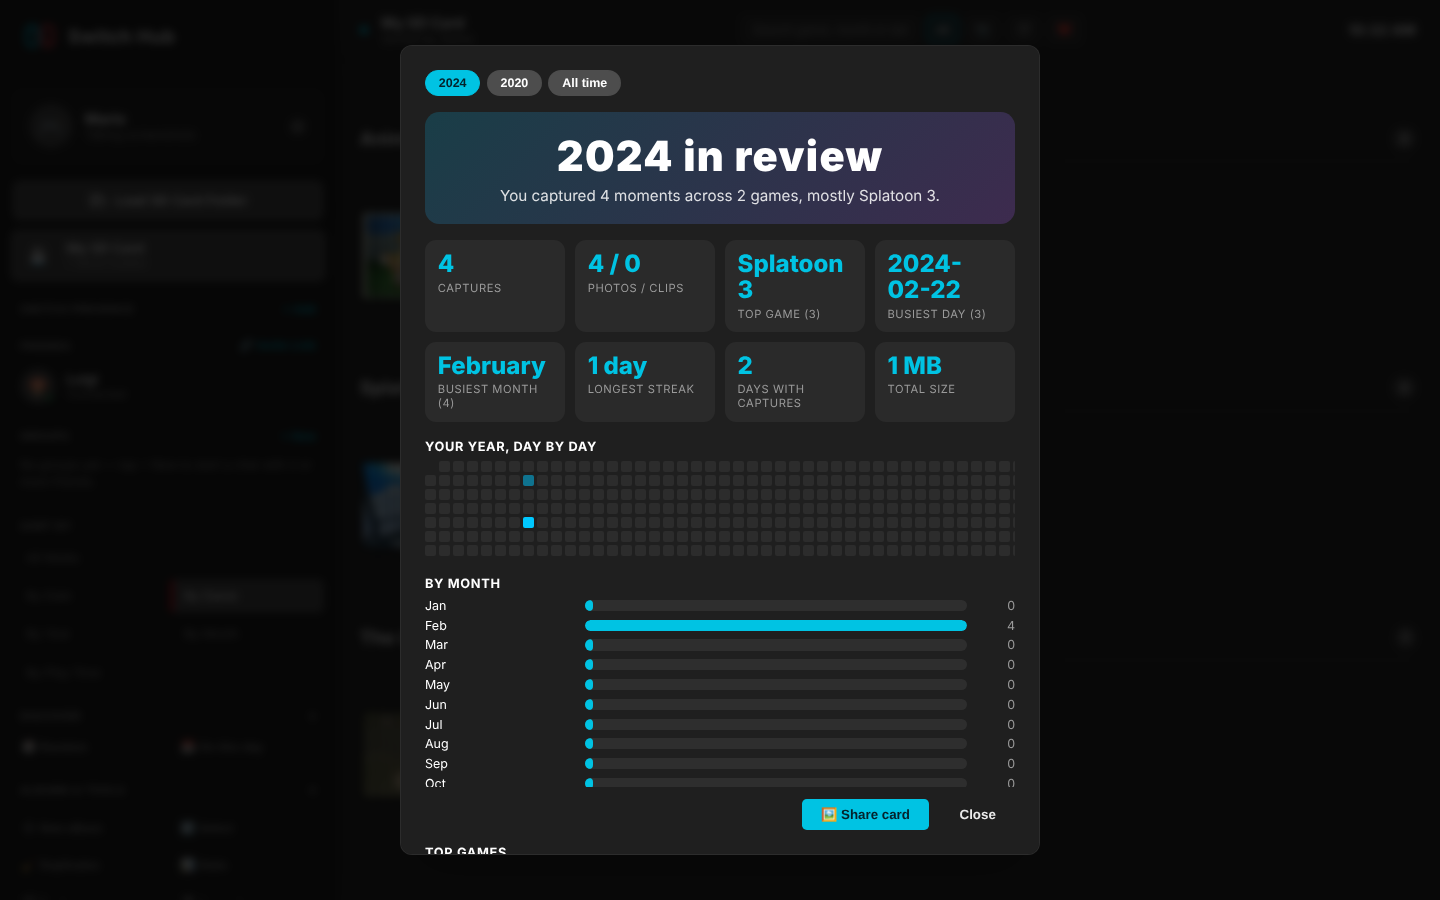
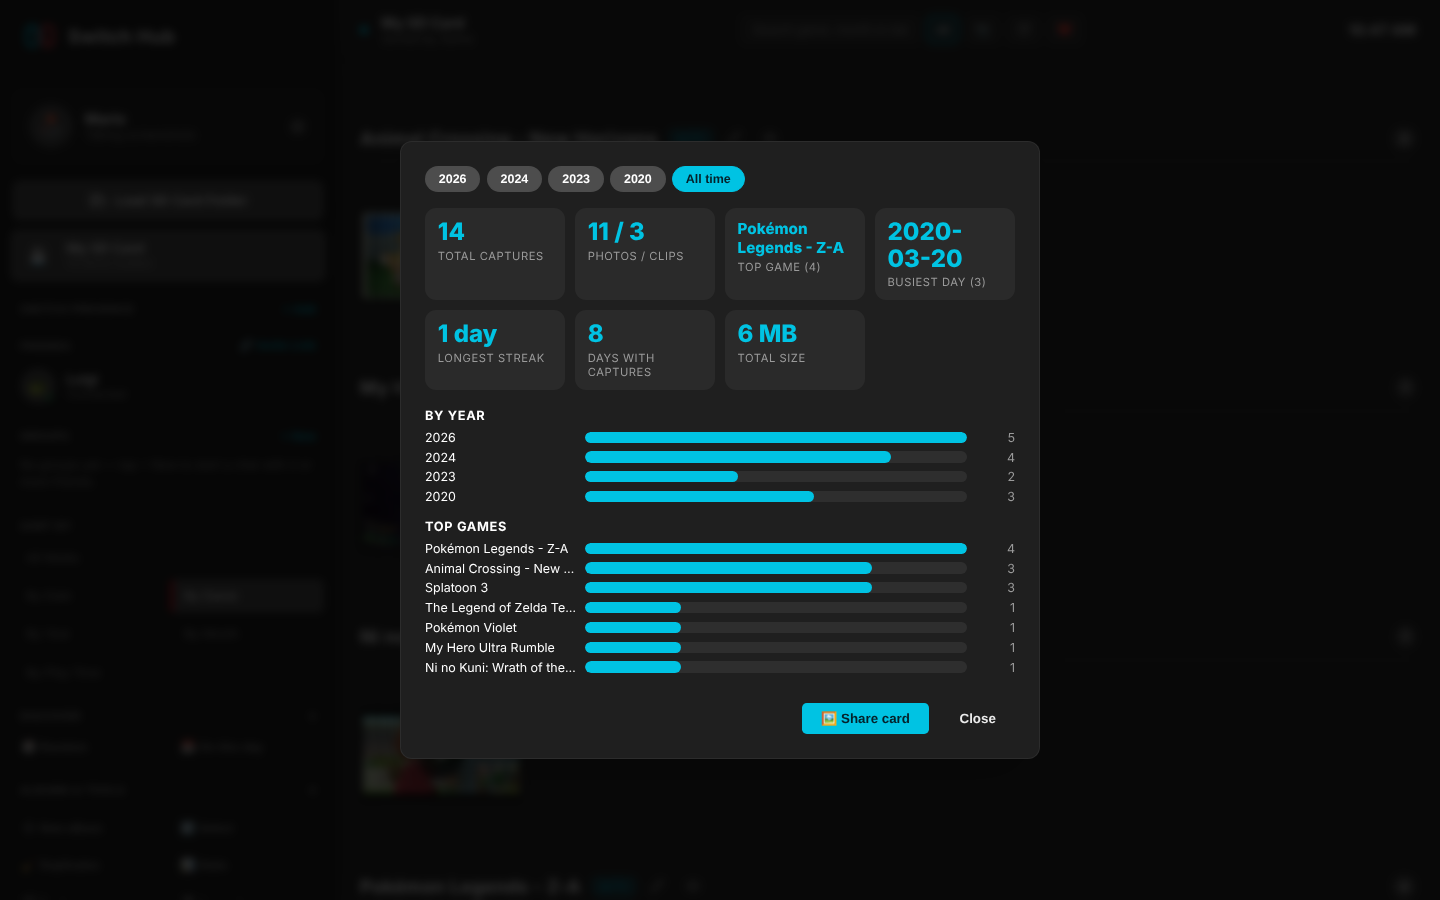
README: redo screenshots with more games, real clips and the all-time stats
Claude-Session: https://claude.ai/code/session_01QyxPkgcy6679hfwadjTiiM

diff --git a/README.md b/README.md
@@ -20,16 +20,16 @@
 ## A look around
 
 <p align="center">
-  <img src="docs/screenshots/gallery.png" alt="The gallery sorted by game, showing Animal Crossing, Ni no Kuni and Splatoon 3 captures" width="100%">
+  <img src="docs/screenshots/gallery.png" alt="The gallery sorted by game, with screenshots and clips from Animal Crossing, My Hero Ultra Rumble, Ni no Kuni and Pokémon" width="100%">
 </p>
 
 <table>
   <tr>
     <td width="50%"><img src="docs/screenshots/chat.png" alt="A chat between Mario and Luigi with read receipts and a reaction"><br><sub><b>Chat</b> with read receipts, reactions and replies</sub></td>
-    <td width="50%"><img src="docs/screenshots/guess-the-date.png" alt="Guess the date: a Splatoon 3 screenshot with four month choices"><br><sub><b>Guess the date</b>, one of the games you can play together</sub></td>
+    <td width="50%"><img src="docs/screenshots/guess-the-date.png" alt="Guess the date: a Ni no Kuni clip with four month choices"><br><sub><b>Guess the date</b>, one of the games you can play together</sub></td>
   </tr>
   <tr>
-    <td width="50%"><img src="docs/screenshots/stats.png" alt="The stats and Year in Review screen"><br><sub><b>Stats and Year in Review</b></sub></td>
+    <td width="50%"><img src="docs/screenshots/stats.png" alt="The all-time stats screen with captures per year and per game"><br><sub><b>Stats and Year in Review</b></sub></td>
     <td width="50%"><img src="docs/screenshots/reel-title-card.png" alt="A highlight reel title card with the Switch Hub logo"><br><sub><b>Highlight reels</b> with an optional title card</sub></td>
   </tr>
 </table>
